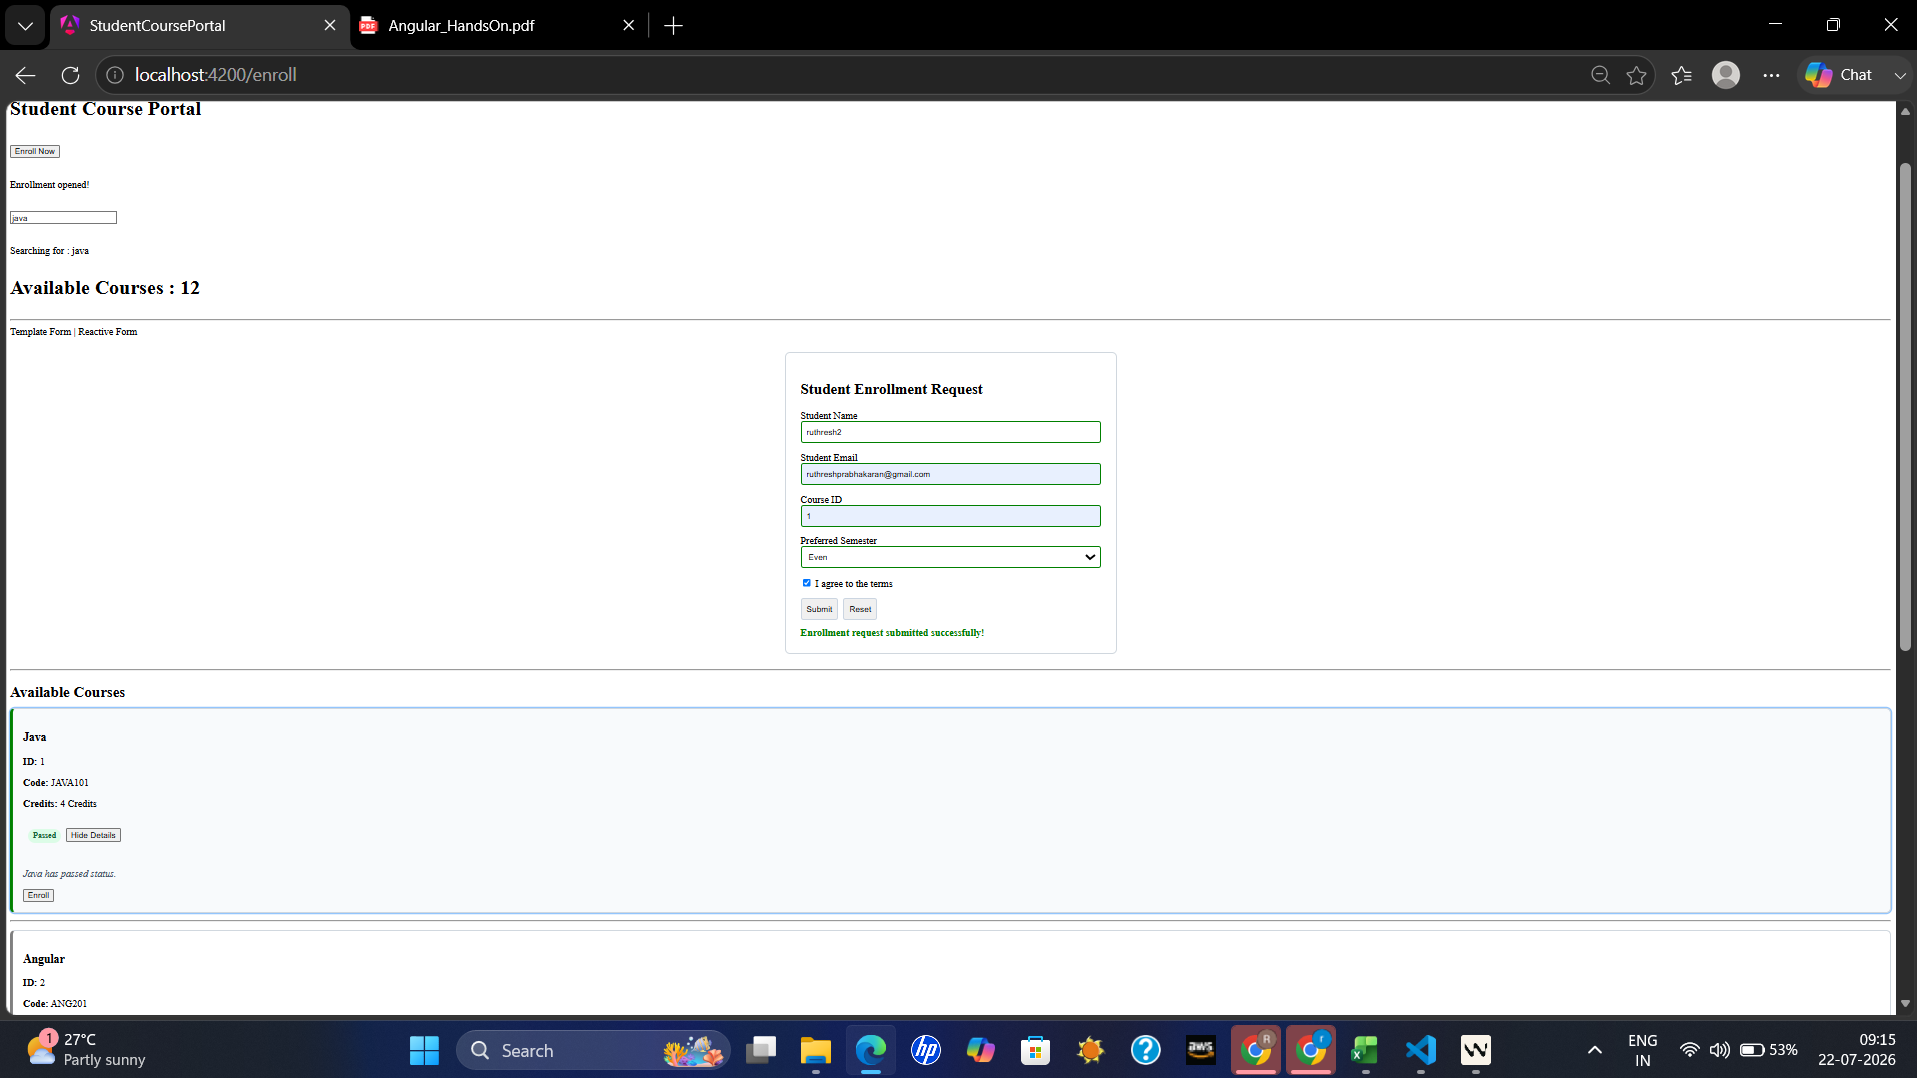
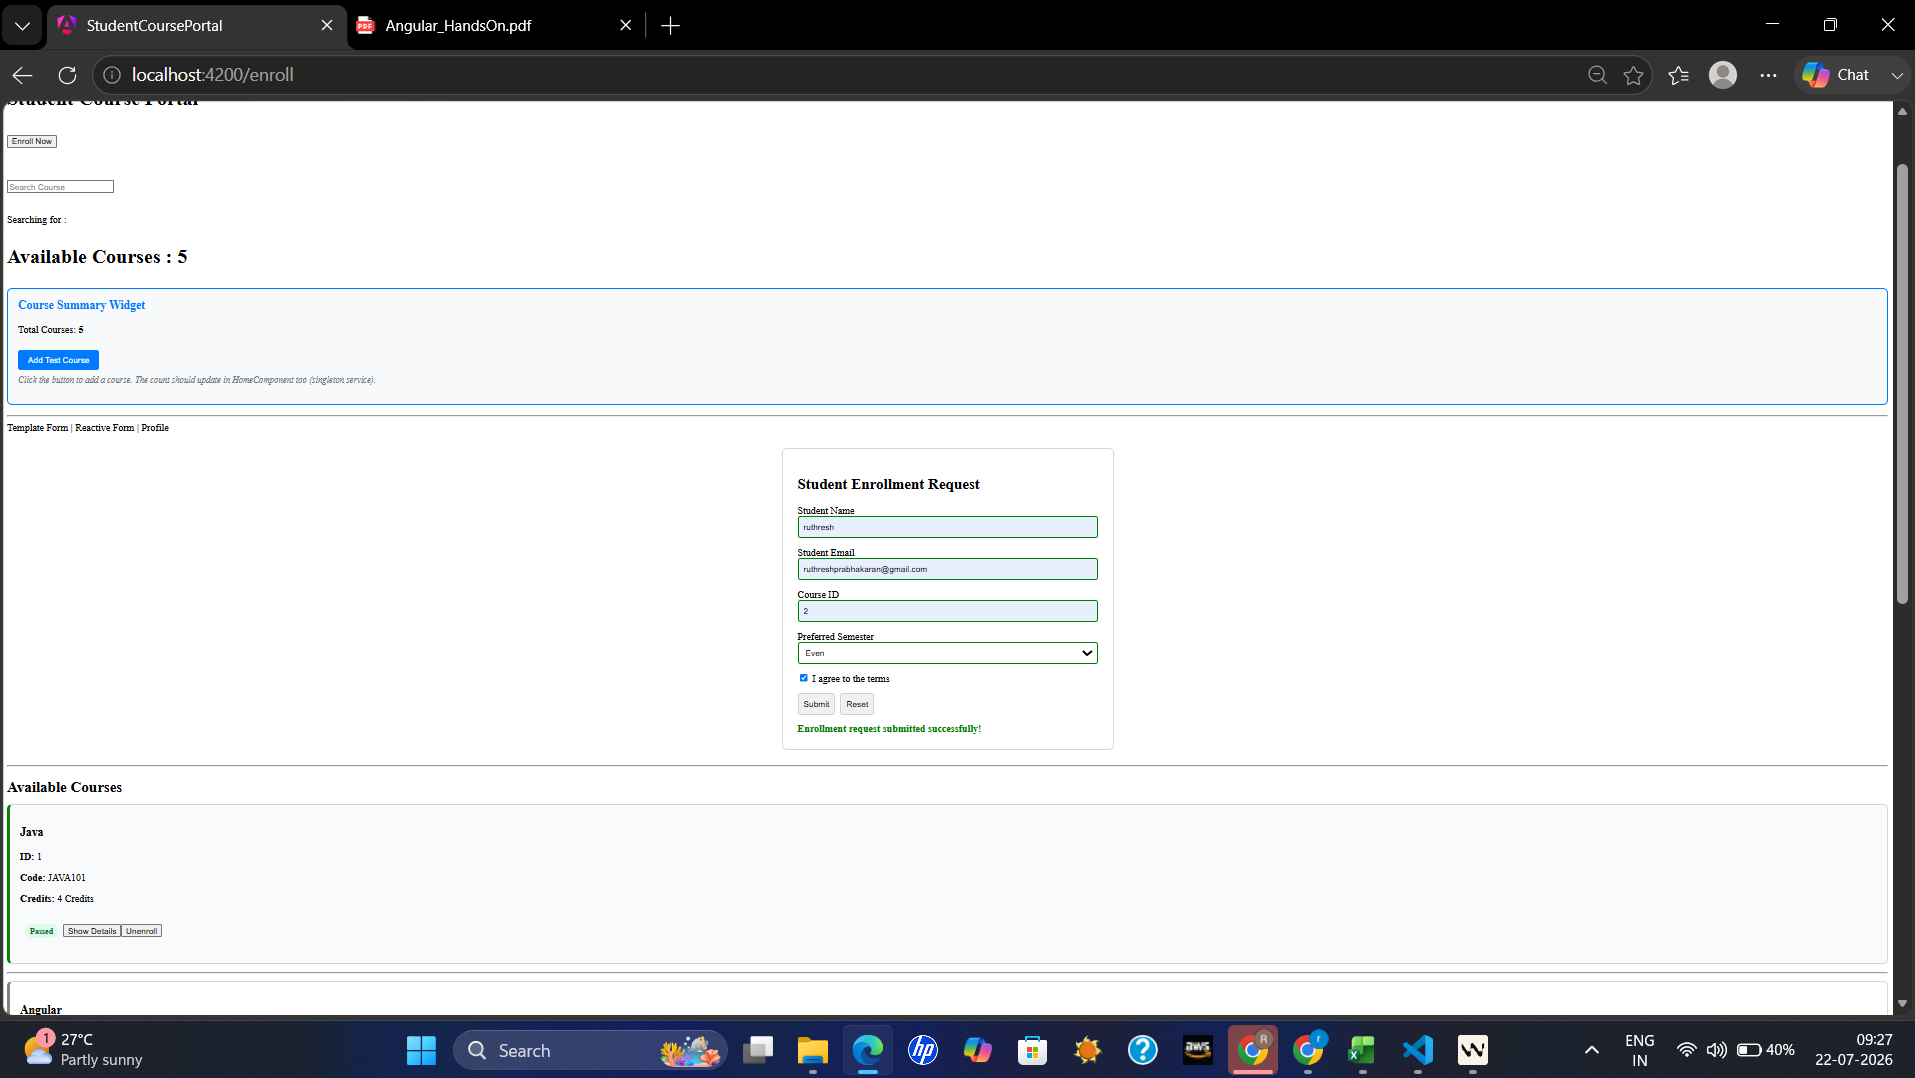
Angular hands on 6

diff --git a/12)Angular/Angular_6/student-course-portal/src/app/app.routes.ts b/12)Angular/Angular_6/student-course-portal/src/app/app.routes.ts
@@ -2,10 +2,14 @@ import { Routes } from '@angular/router';
 import { EnrollmentFormComponent } from './pages/enrollment-form/enrollment-form';
 import { ReactiveEnrollmentComponent } from './pages/reactive-enrollment/reactive-enrollment';
 import { StudentProfile } from './pages/student-profile/student-profile';
+import { HomeComponent } from './pages/home/home';
+import { CourseListComponent } from './pages/course-list/course-list';
 
 export const routes: Routes = [
+  { path: 'home', component: HomeComponent },
+  { path: 'courses', component: CourseListComponent },
   { path: 'enroll', component: EnrollmentFormComponent },
   { path: 'enroll-reactive', component: ReactiveEnrollmentComponent },
   { path: 'profile', component: StudentProfile },
-  { path: '', redirectTo: '/enroll-reactive', pathMatch: 'full' }
+  { path: '', redirectTo: '/home', pathMatch: 'full' }
 ];

diff --git a/12)Angular/Angular_6/student-course-portal/src/app/pages/student-profile/student-profile.html b/12)Angular/Angular_6/student-course-portal/src/app/pages/student-profile/student-profile.html
@@ -1,7 +1,12 @@
 <div class="profile-container">
   <h2>Student Profile</h2>
   <p>Enrolled courses:</p>
-  <ul>
-    <li *ngFor="let course of enrolledCourses">{{ course.name }} ({{ course.code }})</li>
-  </ul>
+  <div *ngIf="enrolledCourses.length > 0">
+    <ul>
+      <li *ngFor="let course of enrolledCourses">
+        <strong>{{ course.name }}</strong> ({{ course.code }}) - Credits: {{ course.credits }} - Status: {{ course.gradeStatus }}
+      </li>
+    </ul>
+  </div>
+  <p *ngIf="enrolledCourses.length === 0">No courses enrolled yet.</p>
 </div>

diff --git a/12)Angular/Angular_6/student-course-portal/src/app/services/course.service.ts b/12)Angular/Angular_6/student-course-portal/src/app/services/course.service.ts
@@ -5,6 +5,8 @@ import { Course } from '../models/course.model';
   providedIn: 'root'
 })
 export class CourseService {
+  // providedIn: 'root' makes this service a singleton - one instance shared across the entire application.
+  // All components that inject CourseService will receive the same instance, ensuring shared state.
   private courses: Course[] = [
     { id: 1, name: 'Java', code: 'JAVA101', credits: 4, gradeStatus: 'passed' },
     { id: 2, name: 'Angular', code: 'ANG201', credits: 3, gradeStatus: 'pending' },
